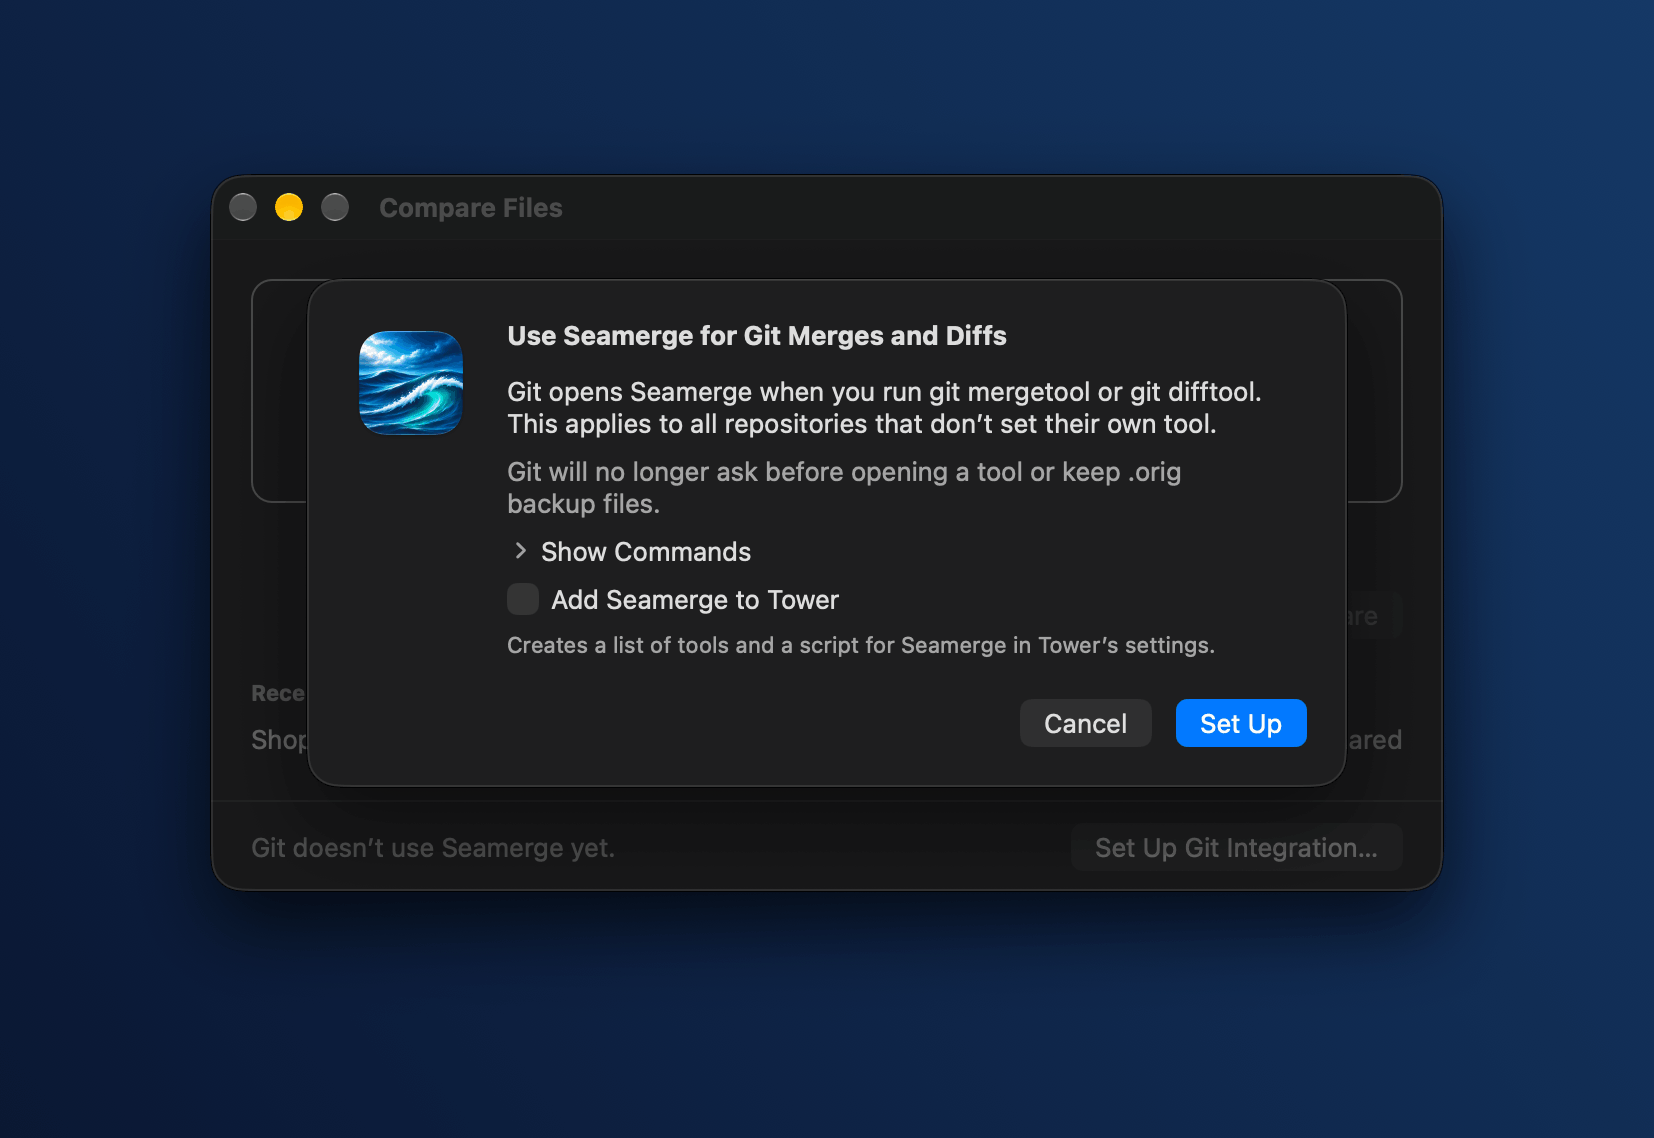
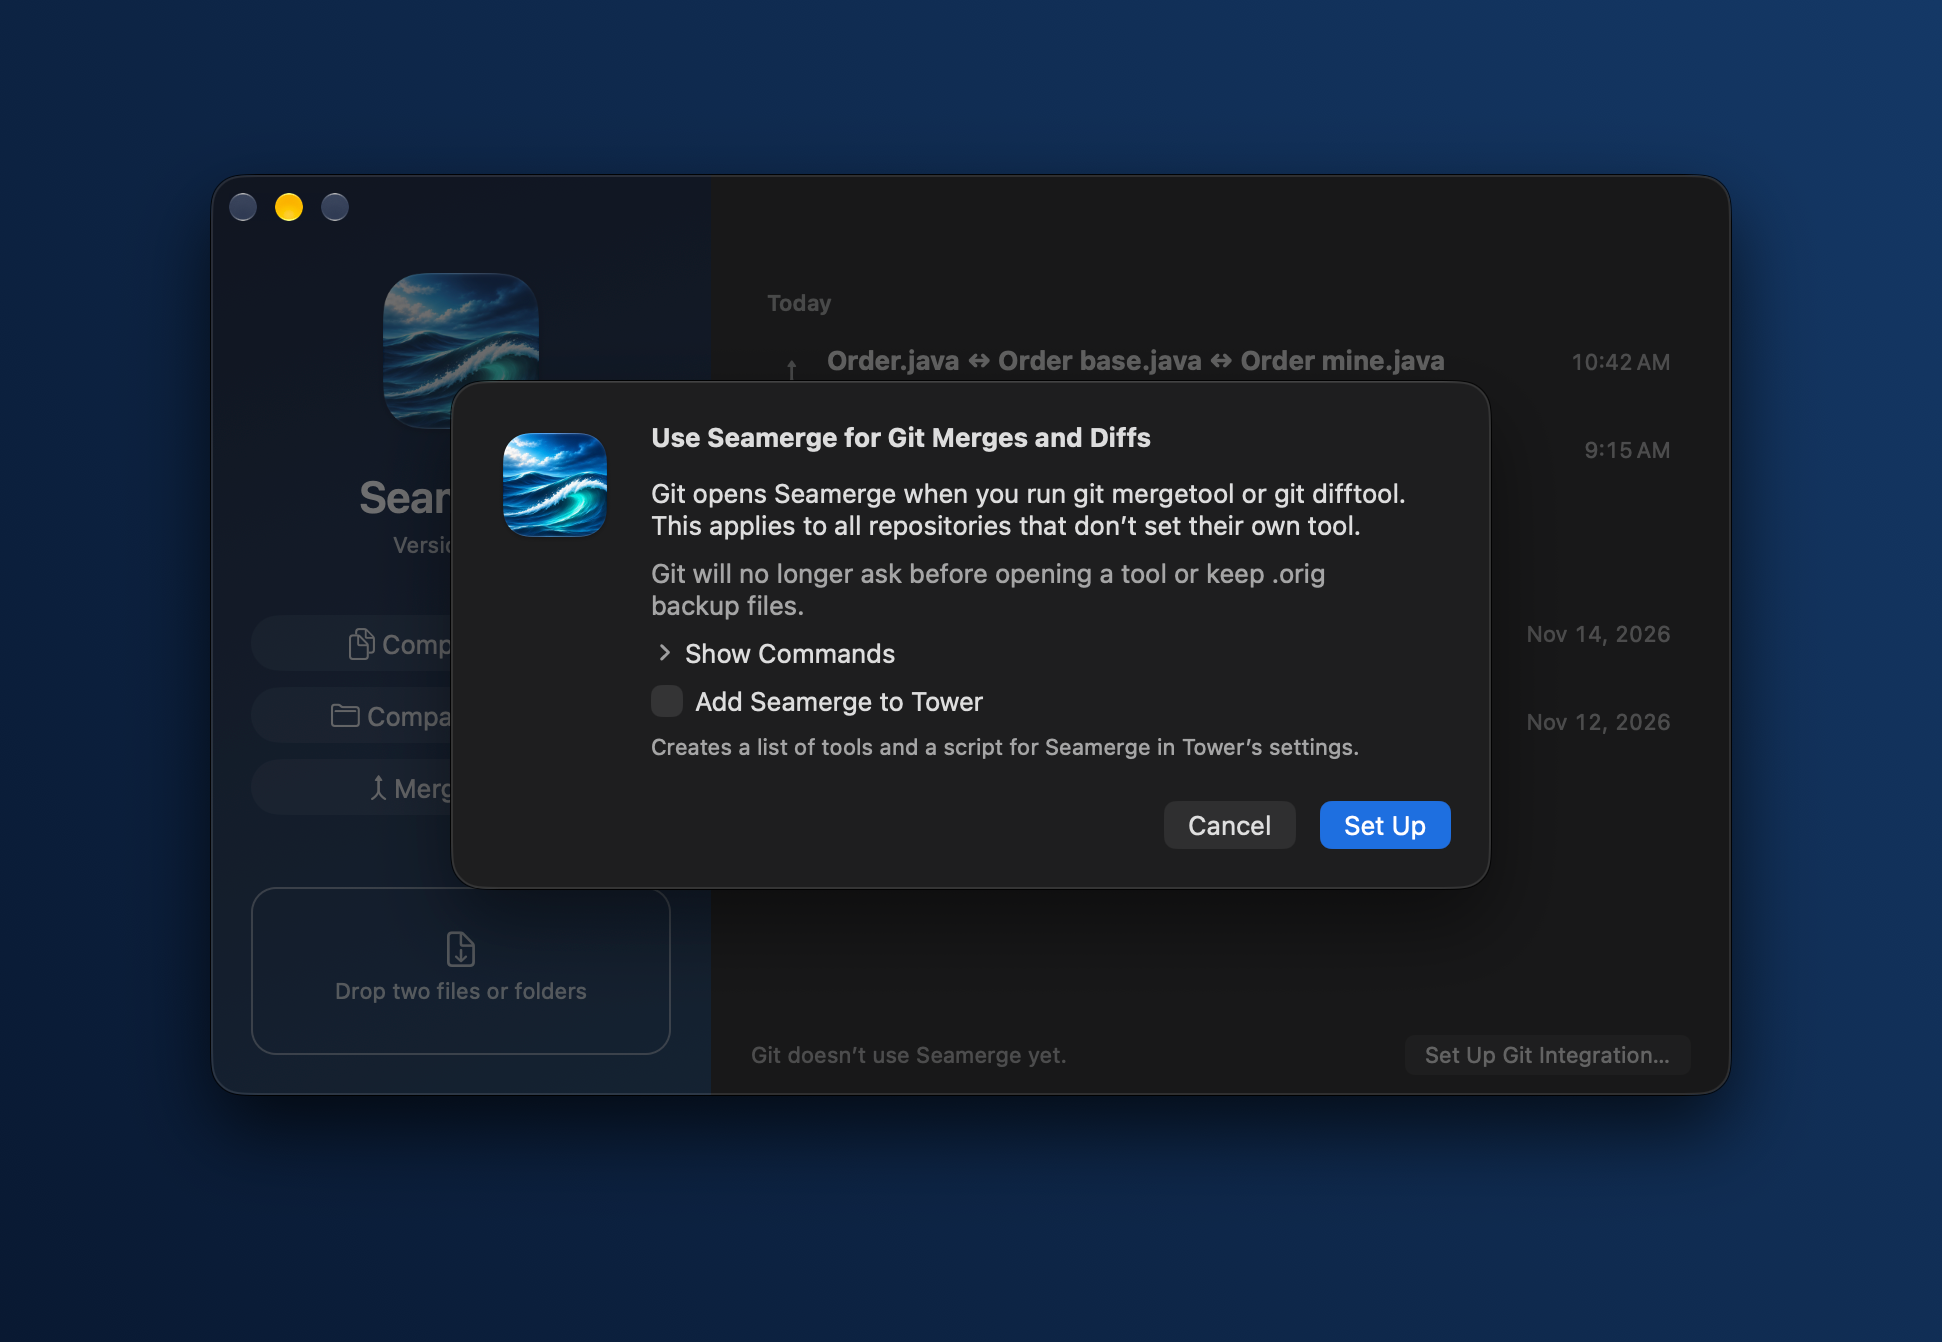
docs: show the welcome window
Add a screenshot of the welcome window to the readme, take the one of
Set Up Git Integration again on the new window, and describe the window
and its sheets in the user guide and the architecture notes.

diff --git a/README.md b/README.md
@@ -37,6 +37,12 @@ Seamerge shows two files side by side, or a three-way merge with its base, and l
     <source media="(prefers-color-scheme: dark)" srcset="Documentation/Images/screenshot-folders-dark.png">
     <img src="Documentation/Images/screenshot-folders-light.png" alt="Two folders compared in one window: the sidebar lists the files that differ, says 7 of 12 files differ and has a field to filter by file name; the selected file is shown side by side with bands between the sides.">
   </picture>
+- **Welcome window.** Start a comparison, a comparison of folders or a merge, or open one of the recent comparisons again, grouped into today and earlier. Two files or folders dropped on the window open at once.
+
+  <picture>
+    <source media="(prefers-color-scheme: dark)" srcset="Documentation/Images/screenshot-welcome-dark.png">
+    <img src="Documentation/Images/screenshot-welcome-light.png" alt="The welcome window: on the left the icon, name and version of Seamerge on deep blue, the buttons Compare Files, Compare Folders and Merge Files and a place to drop two files or folders; on the right the recent comparisons under Today and Earlier, each with its kind, folder and time.">
+  </picture>
 - **Moved blocks.** A block of lines that moved to another place gets an arrow at both ends that points to the other end; a click on the arrow, or Go ▸ Go to Other End of Move, jumps there.
 - **Updates.** Seamerge checks for new versions with your consent and installs one only when you choose to. See [Updates](#updates).
 - **Decisions per block.** The decision bar takes the text of A, the base, B, or both, or nothing, per block, with the mouse or single keys. A conflict stays open until you decide.
@@ -54,7 +60,7 @@ Seamerge shows two files side by side, or a three-way merge with its base, and l
 - **Ignore rules.** Settings ▸ Ignored Text holds rules for text that a comparison should leave out, such as timestamps, UUIDs and memory addresses, and your own patterns. Compare ▸ Use Ignore Rules applies them to a comparison.
 - **Export as patch.** File ▸ Export as Patch… and Edit ▸ Copy as Patch write the changes as a unified diff. `git apply` takes the patch; see the [user guide](Documentation/UserGuide.md#export-as-patch).
 - **Terminal command.** Seamerge ▸ Install Command Line Tool… installs `seamerge` in `/usr/local/bin`, so you can compare files and folders from Terminal.
-- **Finder and Dock.** Select two or three files, or two folders, in Finder and choose Compare with Seamerge from the Services menu. Drop folders on the Seamerge icon in the Dock to fill Compare Files.
+- **Finder and Dock.** Select two or three files, or two folders, in Finder and choose Compare with Seamerge from the Services menu. Drop files or folders on the Seamerge icon in the Dock to fill the sheet Compare Files or Merge Files.
 - **Encoding and line endings of the result.** Choose the encoding and the line endings the result is saved with.
 - **Settings.** Choose the font, size, line spacing and tab width of the code, and how each new window starts. See [Settings](#settings).
 - **Accessibility.** VoiceOver rotors for conflicts and changes, a window of all keyboard shortcuts, and support for Reduce Motion and Increase Contrast. See [Accessibility](#accessibility).
@@ -121,7 +127,7 @@ The `core.hooksPath` setting in the clone makes Git run the hooks in `Scripts/gi
 
 Seamerge does not change your Git configuration until you ask it to:
 
-1. Open Seamerge and choose **Seamerge ▸ Set Up Git Integration…**. The command is also in the window **Compare Files**, in the line that says whether Git opens Seamerge.
+1. Open Seamerge and choose **Seamerge ▸ Set Up Git Integration…**. The command is also in the welcome window, in the line that says whether Git opens Seamerge.
 2. Review the text on the sheet. It names the tool it replaces, if any.
 3. Click **Set Up**.
 
@@ -138,7 +144,7 @@ If Tower is installed, the sheet also has **Add Seamerge to Tower**. Tick it bef
 
 **Seamerge ▸ Install Command Line Tool…** puts a `seamerge` command into `/usr/local/bin`. The app asks for an administrator password before it changes that folder, and **Remove Command Line Tool…** takes the command out again. With the command, you can compare two files or two folders from Terminal, for example `seamerge old.txt new.txt`. The app also recognizes a command that Homebrew has linked there.
 
-In Finder, select files or folders and choose **Compare with Seamerge** from the Services menu. Two files open at once, with the older one on the left; two folders open in the folder comparison; three files fill Compare Files. Seamerge must be in the Applications folder, and it registers the service when it starts.
+In Finder, select files or folders and choose **Compare with Seamerge** from the Services menu. Two files open at once, with the older one on the left; two folders open in the folder comparison; three files fill the sheet Merge Files. Seamerge must be in the Applications folder, and it registers the service when it starts.
 
 ## Try it with the examples
 
@@ -197,7 +203,7 @@ Each window opens where the last window of its kind was closed, with the size it
     <img src="Documentation/Images/screenshot-shortcuts-light.png" width="560" alt="The Keyboard Shortcuts window of a merge, with the commands in two columns, grouped by menu.">
   </picture>
 - **Reduce Motion.** With Reduce Motion turned on in System Settings, a preview turns into text at once, without a transition.
-- **Contrast.** The colors of the text, the bands and the borders are checked against their backgrounds in light and dark mode, with and without Increase Contrast. The border of a file field in Compare Files that accepts a drop stays visible with any accent color.
+- **Contrast.** The colors of the text, the bands and the borders are checked against their backgrounds in light and dark mode, with and without Increase Contrast. The border of a file field that accepts a drop stays visible with any accent color, and the text on the blue of the welcome window keeps its contrast.
 
 ## Keyboard shortcuts
 

diff --git a/Documentation/UserGuide.md b/Documentation/UserGuide.md
@@ -60,9 +60,9 @@ Open conflicts show their preview of A and B until you decide. You cannot type i
 
 ## Comparing files
 
-Seamerge compares two files with `git difftool`, from Tower, or from the window **Compare Files** in the app.
+Seamerge compares two files with `git difftool`, from Tower, or from the welcome window in the app.
 
-- **Compare Files** lists the recent comparisons. You can also drop files on the Dock icon of Seamerge.
+- **File ▸ Compare Files…** (`⌘O`) shows the sheet Compare Files; see [The welcome window](#the-welcome-window).
 - **File ▸ Compare Folders…** compares two folders in one window; see [Comparing folders in the app](#comparing-folders-in-the-app).
 - Under **Compare** you choose how the files are compared:
   - **Exact** compares every byte.
@@ -72,6 +72,20 @@ Seamerge compares two files with `git difftool`, from Tower, or from the window 
 - **Swap Sides** exchanges the left and the right file.
 - **Next File** (`⌥⌘→`) and **Previous File** (`⌥⌘←`) move through the files of a collection.
 - **Show Sidebar** (`⌃⌘S`) shows or hides the list of files.
+
+### The welcome window
+
+The welcome window appears when Seamerge starts without a task, and when you click its Dock icon while no window is open.
+
+- **Compare Files…** (`⌘O`) shows a sheet with two fields, Left and Right, for two files or two folders.
+- **Compare Folders…** shows the same sheet and asks for the left folder first.
+- **Merge Files…** shows a sheet with three fields, A, Base and B.
+- Drop a file on a field, or click **Choose…** in it. **Swap Sides** exchanges the outer fields. **Compare** or **Merge** opens the files in the roles shown.
+- Two files or two folders dropped on the window open at once. Three files fill the sheet Merge Files. One file fills the left field of the sheet Compare Files.
+- The list shows the recent comparisons under **Today** and **Earlier**, each with its kind, its folder, and the time or the day. A double click or Return opens one. A comparison whose files are gone is left out.
+- The line at the bottom says whether Git uses Seamerge, with **Set Up Git Integration…** when it does not.
+
+If the files cannot be opened, the sheet says why and keeps them.
 
 ### Several files in one window
 
@@ -89,7 +103,7 @@ In Tower, turn on **Perform directory diff** to compare folders.
 
 ### Comparing folders in the app
 
-**File ▸ Compare Folders…** compares two folders in one window, without Git or Tower. Choose the two folders in **Compare Files**, or choose **Compare Folders…** in the File menu. The list shows the files that are new, deleted, modified, identical, or cannot be read. A file that cannot be read stays in the list with the reason. The progress of the comparison is shown above the filter. **View ▸ Show Identical Files** adds the identical files to the list. Links are not followed; their targets are compared as text.
+**File ▸ Compare Folders…** compares two folders in one window, without Git or Tower. Choose **Compare Folders…** in the welcome window or in the File menu, or drop two folders on the welcome window. The list shows the files that are new, deleted, modified, identical, or cannot be read. A file that cannot be read stays in the list with the reason. The progress of the comparison is shown above the filter. **View ▸ Show Identical Files** adds the identical files to the list. Links are not followed; their targets are compared as text.
 
 **Filter Files** (`⇧⌘F`) narrows the list. Type in the field at the foot of the sidebar, and the list keeps the files whose name or folder contains the text, ignoring case and accents. Escape clears the field. **Next File** and **Previous File** follow the filtered list.
 
@@ -194,17 +208,17 @@ Examples: `seamerge old.txt new.txt` compares two files; `seamerge <old folder> 
 
 Select files or folders in Finder and choose **Compare with Seamerge** from the Services menu:
 
-- One file opens in Compare Files, on the left.
+- One file opens in the sheet Compare Files, on the left.
 - Two files open at once in a comparison, with the older file on the left.
 - Two folders open in the folder comparison.
-- Three files fill the three fields of Compare Files.
-- Any other selection, such as four files or files mixed with folders, is not compared, and Compare Files says why.
+- Three files fill the sheet Merge Files.
+- Any other selection, such as four files or files mixed with folders, is not compared, and the sheet Compare Files says why.
 
 The service is available once Seamerge is in the Applications folder or in `~/Applications` and has been started; Seamerge registers it at each start. If **Compare with Seamerge** is missing from the menu, turn it on in **System Settings ▸ Keyboard ▸ Keyboard Shortcuts… ▸ Services ▸ Files and Folders**.
 
 ### Dock
 
-Files and folders dropped on the Seamerge icon in the Dock fill the fields of Compare Files. Nothing is compared until you choose the comparison. Seamerge accepts files and folders in the Dock but is never the default app for them.
+Files and folders dropped on the Seamerge icon in the Dock fill the sheet Compare Files, or Merge Files for three files. Nothing is compared until you choose the comparison. Seamerge accepts files and folders in the Dock but is never the default app for them.
 
 ## Settings
 

diff --git a/Documentation/Architecture.md b/Documentation/Architecture.md
@@ -23,7 +23,7 @@ The packages require Swift tools 6.2 and macOS 27.0. Warnings are errors in ever
 | `SyntaxKit` | nothing | Language descriptions and lexers for syntax highlighting. |
 | `PaneKit` | nothing | The text panes, the row grid that aligns them, the connected layout (seams, bands and the common scroll track), the decision column and the overview bar. |
 | `SeamergeCLI` | `SessionIPC`, `GitSupport` | The logic of the `seamerge` command: arguments, file checks, starting the app, the exit code. |
-| `SeamergeUI` | `PaneKit`, `MergeModel`, `SyntaxKit`, `GitSupport` | The session window, its toolbar and menus, the settings (`UserSettings`), the keyboard shortcut window, the Compare Files window and the Git integration sheet. |
+| `SeamergeUI` | `PaneKit`, `MergeModel`, `SyntaxKit`, `GitSupport` | The session window, its toolbar and menus, the settings (`UserSettings`), the keyboard shortcut window, the welcome window with its sheets of files and the Git integration sheet. |
 
 The arrows point one way. The user interface knows the model, and the model knows the engine. Only `PaneKit` and `SeamergeUI` import AppKit. A module that is not in the table cannot be imported, which the compiler enforces.
 
@@ -32,8 +32,8 @@ The arrows point one way. The user interface knows the model, and the model know
 ## App
 
 - `App/Seamerge/main.swift` starts the app.
-- `AppDelegate` builds the main menu, creates the one `UserSettings` from the defaults, starts the session coordinator and shows the Compare Files window when the app has nothing else to do.
-- `SessionCoordinator` opens one window for each session and gives it the settings. Sessions come from the socket (`SessionServer`) or from the Compare Files window. Every session window has its own undo manager.
+- `AppDelegate` builds the main menu, creates the one `UserSettings` from the defaults, starts the session coordinator and shows the welcome window when the app has nothing else to do.
+- `SessionCoordinator` opens one window for each session and gives it the settings. Sessions come from the socket (`SessionServer`) or from the welcome window. Every session window has its own undo manager.
 - `App/SeamergeTool` is the `seamerge` executable. It calls `SeamergeCLI` and starts the app through `WorkspaceAppLauncher` when the app is not running.
 - `App/Shared/HelperLaunch.swift` holds the argument `--for-session` that the command passes when it starts the app, so that the app shows no window of its own at start.
 
@@ -201,10 +201,10 @@ Tower passes two folders to the launch script when its setting "Perform director
 `App/Config/Info.plist` declares the service **Compare with Seamerge** (`NSServices`, message `compareWithSeamerge`) for public data and folders, and a document type Folder with rank None, so Seamerge takes files and folders from the Dock without becoming their default app.
 
 - `App/Seamerge/AppDelegate+Service.swift` reads the file URLs from the pasteboard and brings the app to the front. `AppDelegate` is the `servicesProvider`.
-- `App/Seamerge/ServiceSelection.swift` sorts a selection into one entry, two files, two folders, three files or other. Two files open at once through `SessionCoordinator.open`, the older on the left; an error opens Compare Files with the reason beside the field. Other selections say so in Compare Files.
+- `App/Seamerge/ServiceSelection.swift` sorts a selection into one entry, two files, two folders, three files or other. Two files open at once through `SessionCoordinator.open`, the older on the left; an error opens the sheet of the files on the welcome window with the reason. Other selections say so in the sheet Compare Files.
 - `registerServiceIfInstalled()` calls `NSUpdateDynamicServices` only for an app in `/Applications` or `~/Applications`, at each start, so an update refreshes the entry.
-- At launch, Compare Files appears only if neither the service nor an open event arrived in time (`hasReceivedTask`) and no session window is open (`startWindowTask`).
-- Files and folders dropped on the Dock icon fill the outer fields of Compare Files and open nothing.
+- At launch, the welcome window appears only if neither the service nor an open event arrived in time (`hasReceivedTask`) and no session window is open (`startWindowTask`).
+- Files and folders dropped on the Dock icon fill the sheet Compare Files, or Merge Files for three files, and open nothing.
 
 ## Tests
 
